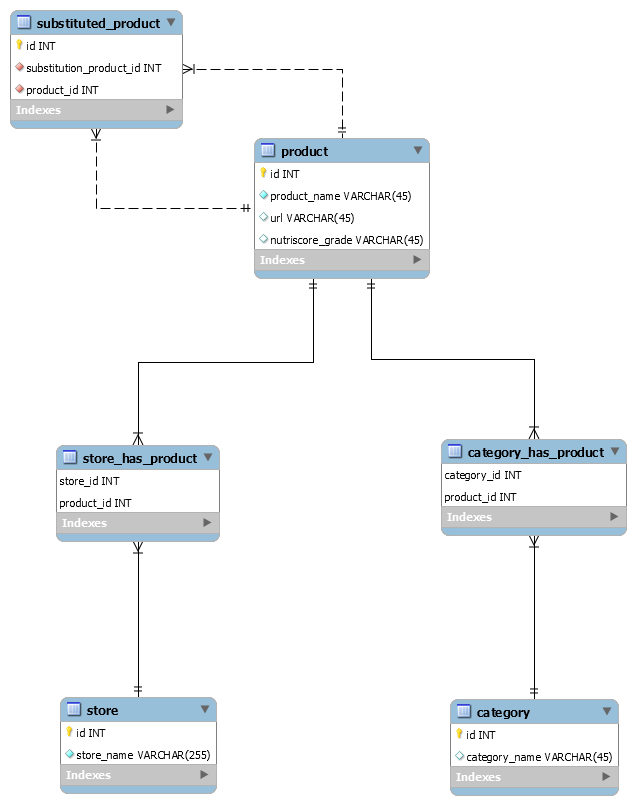
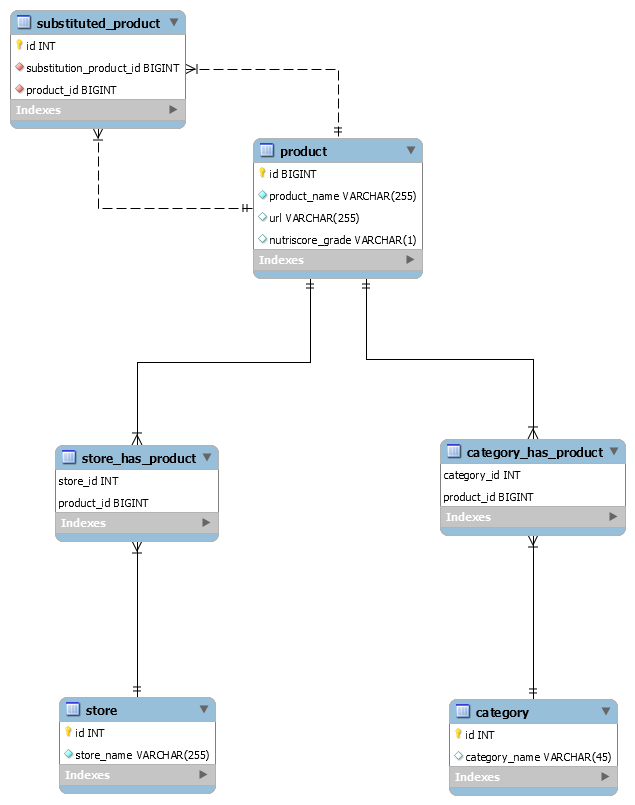
Added insert method, updated sql schema

diff --git a/app.py b/app.py
@@ -18,12 +18,13 @@ class App:
 
     def __init__(self) -> None:
         self.api: Api = Api()
-        self.database : Database() = Database(environ['HOST'], environ['USER'], environ['PASSWORD'])
+        self.database : Database() = Database(environ['HOST'], environ['USER'], environ['PASSWORD'], "openfoodfacts")
 
     def main(self) -> None:   
         self.api.get_products()
         self.database.connect()
-        print(self.database.execute("SHOW DATABASES ;"))
+        #self.database.insert("INSERT INTO openfoodfacts.product VALUES ('3502110009449', 'Pur jus dorange sans pulpe', 'https://world.openfoodfacts.org/product/3502110009449/pur-jus-d-orange-sans-pulpe-tropicana', 'D');")
+        #print(self.database.query("SELECT * FROM openfoodfacts.product;"))
         self.database.disconnect()
 
 def main() -> None:

diff --git a/database/database.py b/database/database.py
@@ -29,13 +29,20 @@ class Database:
             charset=self.charset
         )
 
-    def execute(self, query):
+    def query(self, query):
         '''Open Cursor, Execute the Query and return result.'''
         cursor = self.connection.cursor()
         cursor.execute(query)
         result = cursor.fetchall()
         cursor.close()
         return result
+
+    def insert(self, query):
+        '''Open Cursor, Execute the Insert and commit changes to the database.'''
+        cursor = self.connection.cursor()
+        cursor.execute(query)
+        self.connection.commit()
+        cursor.close()
 
     def disconnect(self):
         '''Close the database connection.'''

diff --git a/readme.md b/readme.md
@@ -1,7 +1,9 @@
 # Open Classrooms Projet 5: Utilisez les données publiques de l'OpenFoodFacts
 
-## Tableau Trello du projet
-https://trello.com/b/3Kfg4uZT/oc-projet5-openfoodfacts (Work In Progress)
+## Tableaux Trello et Featmap du projet
+
+- [Work In Progress] <https://trello.com/b/3Kfg4uZT/oc-projet5-openfoodfacts>
+- [Version Initiale OK] <https://app.featmap.com/link/17da3389-e919-4819-b819-8f51d02279a4>
 
 ## Cahier des Charges
 
@@ -25,43 +27,68 @@ L'utilisateur sélectionne 1. Le programme pose les questions suivantes à l'uti
 - La recherche doit s'effectuer sur une base MySql.
 
 ## Architecture Programme
+
 **4 Classes + main:**
+
 - Récupération données Open Food Facts
-    - Requête API
-    - Formattage json pour intégration en base de données
+  - Requête API
+  - Formattage json pour intégration en base de données
 - Création Base de données
-    - Création Base
-    - Création Tables
-    - Intégration Base de données
+  - Création Base
+  - Création Tables
+  - Intégration Base de données
 - Gestion Base de Données
-    - Connexion
-    - Requête
-    - Mise en forme de la réponse
-    - Update
-    - Déconnexion
+  - Connexion
+  - Requête
+  - Mise en forme de la réponse
+  - Update
+  - Déconnexion
 - Main:
-    - Sélection choix (Nouveau Produit à substituer ou Affichage des éléments déjà substitués)
-    - Choix 1, Nouveau Produits à substituer:
-        - Sélection Catégorie (Chaque catégorie associée à un chiffre)
-        - Sélection Aliment (Chaque aliment associé à un chiffre)
-        - Proposition d'un substitut à l'aliment (Aliment, Description, Magasin ou acheter, lien Open Food Fact)
-        - Proposition enregistrement du susbtitut en base pour l'utilisateur
-    - Choix 2, Accès aux éléments déjà substitués par l'utilisateur:
-        - Affichage catégories disponibles (seulement celles ou l'utilisateur a sauvegardé un substitut)
-        - Affichage aliments sauvegardés par l'utilisateur
+  - Sélection choix (Nouveau Produit à substituer ou Affichage des éléments déjà substitués)
+  - Choix 1, Nouveau Produits à substituer:
+    - Sélection Catégorie (Chaque catégorie associée à un chiffre)
+    - Sélection Aliment (Chaque aliment associé à un chiffre)
+    - Proposition d'un substitut à l'aliment (Aliment, Description, Magasin ou acheter, lien Open Food Fact)
+    - Proposition enregistrement du susbtitut en base pour l'utilisateur
+  - Choix 2, Accès aux éléments déjà substitués par l'utilisateur:
+    - Affichage catégories disponibles (seulement celles ou l'utilisateur a sauvegardé un substitut)
+    - Affichage aliments sauvegardés par l'utilisateur
 - Interface
 
 ## Champs API à récupérer
 
-Exemple à analyser : 
-- https://world.openfoodfacts.org/api/v0/product/5449000000996
-- https://world.openfoodfacts.org/product/5449000000996/coca-cola
+Exemple à analyser :
 
-| Information     |     Champ API    |
-| - |:-
-| Aliment ID   |        _id        |
-| Aliment     |        product_name        |
-| Magasin ou acheter    |        stores_tags        |
-| Lien OpenFoodFact    |        url        |
-| nutriscore    |        nutriscore_grade        |
-| Catégorie    |        categories        |
+- <https://world.openfoodfacts.org/api/v0/product/5449000000996>
+- <https://world.openfoodfacts.org/product/5449000000996/coca-cola>
+
+| Information        | Champ API        |
+| ------------------ | :--------------- |
+| Aliment ID         | _id              |
+| Aliment            | product_name     |
+| Magasin ou acheter | stores_tags      |
+| Lien OpenFoodFact  | url              |
+| nutriscore         | nutriscore_grade |
+| Catégorie          | categories       |
+
+## Séquencement du projet
+
+- [x] Identification des données nécessaires au fonctionnement du programme sur site OpenFoodFacts
+- [x] Prise en main API
+- [x] Identification des champs de l'API à récupérer
+- [x] Récupération de la requête d'appel API
+- [x] Création première version classe API
+  - [x] Récupération d'un nombre fixe de produits d'une catégorie fixée
+  - [x] Nettoyage et formatage des données (dictionnaire + json file)
+- [x] Modélisation Base de données
+- [x] Création base de donnée via SQL et mysql workbench
+- [ ] Remplissage à la main avec jeu de données manuel
+- [ ] Création d'une classe Database
+  - [ ] Connexion
+  - [ ] Execution de requête
+  - [ ] Deconnexion
+- [ ] Développement du programme
+- [ ] Création classe Création Base de données
+- [ ] Création classe Remplissage Base de données
+- [ ] Optimimisation classe API
+- [ ] Création interface graphique
